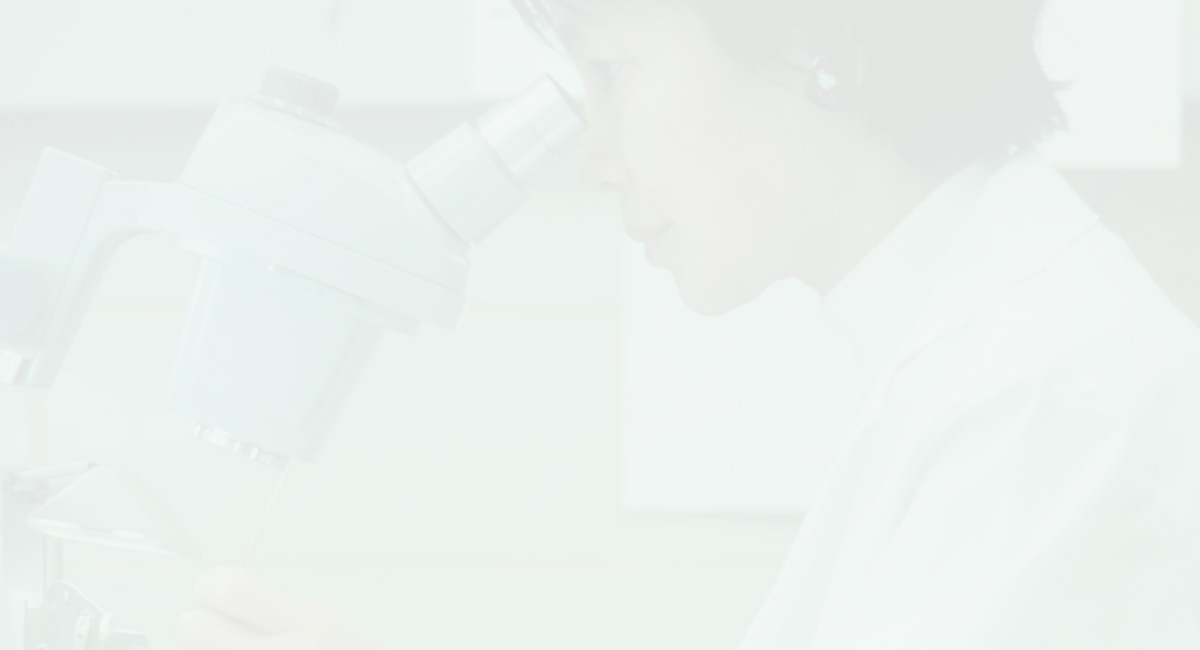
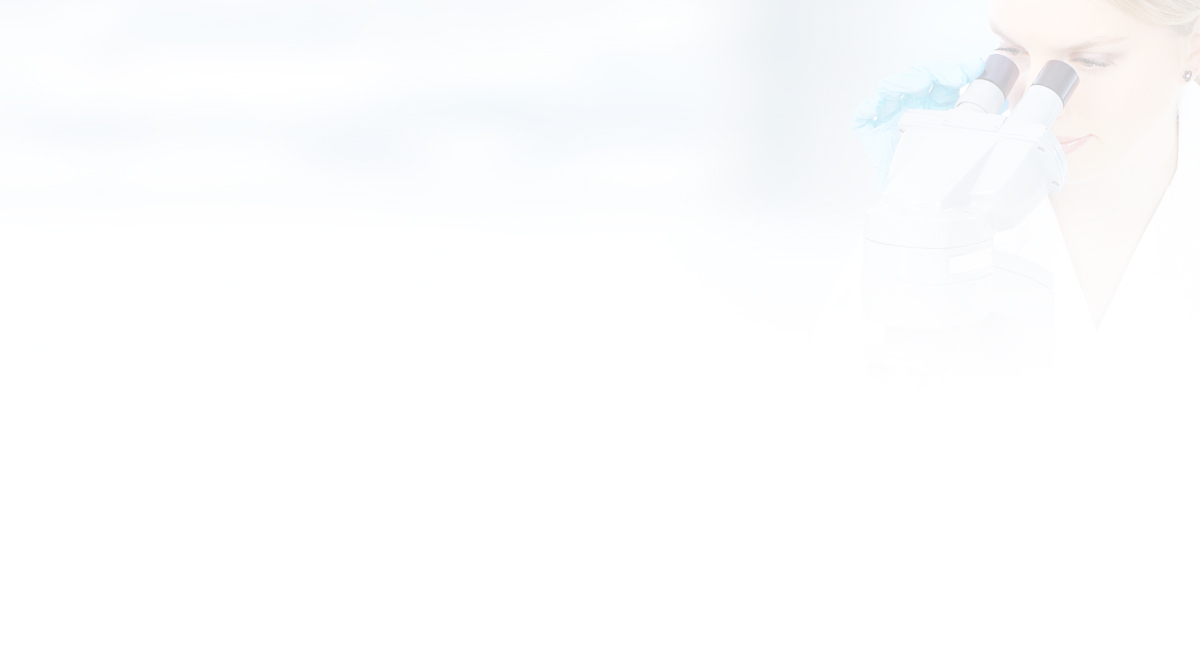
new modal bg
text update

diff --git a/mel/index.html b/mel/index.html
@@ -24,9 +24,9 @@
 <div class="top-bar-right">
 <ul class="menu">
 
-<li><a data-open="ModalAbout" href="#"><i class="fa fa-stethoscope" aria-hidden="true"></i> About</a></li>
+<li><a data-open="ModalAbout" href="#"><i class="fa fa-info-circle" aria-hidden="true"></i></i> About</a></li>
 <li><a data-open="ModalConsult" href="#"><i class="fa fa-user-md" aria-hidden="true"></i> Consultations</a></li>
-<li><a data-open="ModalServices" href="#"><i class="fa fa-stethoscope" aria-hidden="true"></i> Services</a></li>
+<li><a data-open="ModalServices" href="#"><i class="fa fa-cogs" aria-hidden="true"></i> Services</a></li>
 
 
 </ul>
@@ -40,12 +40,12 @@
 <h1>Our Consultant Trichologist</h1>
 <p class="lead">Melissa Bent has a wide range of knowledge and vast experience in the hair care. She treats all ages of patients and all ethnicity hair types including Caucasoid, Mongoloid and Afroid. She is one of the country’s most sought after Afroid and mixed hair trichologists, which is the most difficult hair type to understand and treat.</p>
 <h2>Company Ethos</h2>
-<p class="lead">Our company understands having any hair and scalp condition can be distressing and offer a discreet empathetic service, to give you clarity and understanding of your condition.</p>
+<p class="lead">Our company understands having any hair and scalp condition can be distressing and we offer a discreet empathetic service, to give you clarity and understanding of your condition.</p>
 		<ol class="lead">
 				<li>We do not use the one size fits all approach</li>
-				<li>We will never try to sell you products you don’t need</li>
-				<li>We will never make you false promises</li>
-				<li>We will never use scare mongering tactics to panic you into gaining treatment</li>
+				<li>We will never try to sell you products that you don’t need</li>
+				<li>We will never make false promises</li>
+				<li>We will never use scare mongering tactics to panic you into obtaining treatment</li>
 				<li>We just want to help you, anyway we can, so you can be you again</li>
 			</ol>
 
